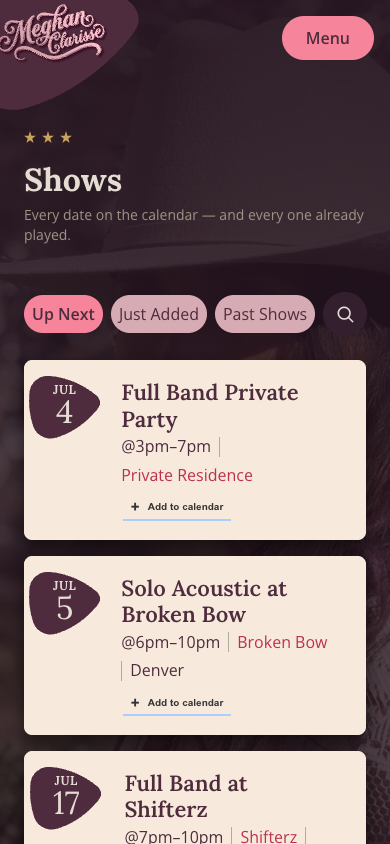
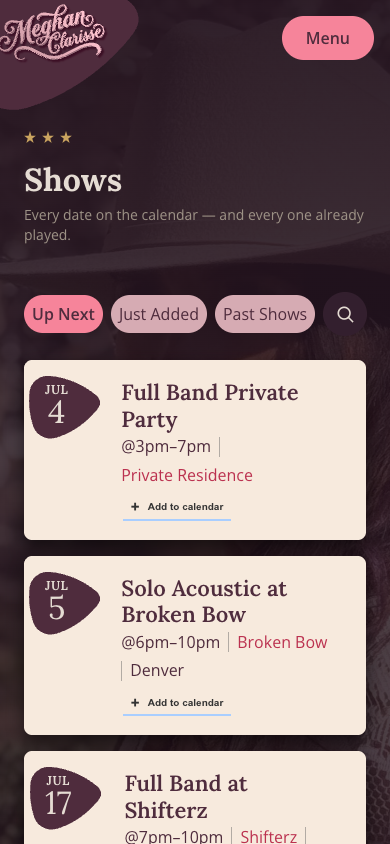
fix(shows): nudge date-badge month/day 8px left over the pick
Per Figma review — shift the month/day text layers -8px on the x axis so
they sit in the pick's left-center. Pick unchanged.

diff --git a/src/components/ShowCard/ShowCard.module.css b/src/components/ShowCard/ShowCard.module.css
@@ -68,6 +68,8 @@
 .day {
   position: relative;
   z-index: 1;
+  /* Nudge the month/day 8px left over the pick to match the comp. */
+  left: -8px;
   font-family: var(--mc-font-display);
   /* Figma uses normal leading; the month's -6px tuck relies on that leading to
      leave a couple px of breathing room under the month (line-height:1 kills it
